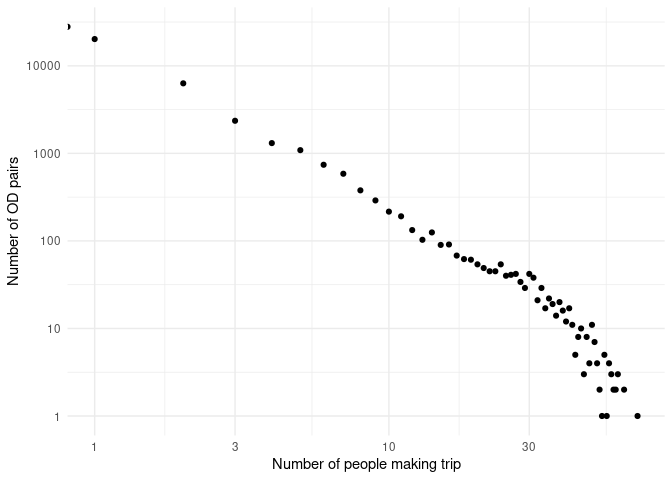
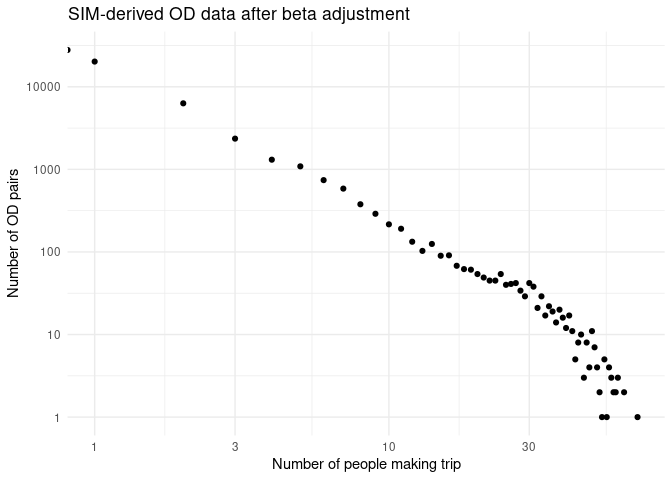
Complete updated utility methods report, for now

diff --git a/report-utility-methods.md b/report-utility-methods.md
@@ -323,9 +323,9 @@ Illustrations of the spatial interaction model results are shown below.
 
 Let’s create the equivalent graphs for a single origin zone.
 
-![](report-utility-methods_files/figure-commonmark/unnamed-chunk-31-1.png)
+![](report-utility-methods_files/figure-commonmark/sim-shopping-output-single-zone-1.png)
 
-![](report-utility-methods_files/figure-commonmark/unnamed-chunk-31-2.png)
+![](report-utility-methods_files/figure-commonmark/sim-shopping-output-single-zone-2.png)
 
 The results demonstrate how the previous `beta` value led to an
 over-emphasis on short trips.
@@ -345,21 +345,84 @@ numbers against the number of people making that trip, as shown below.
 
 ![](report-utility-methods_files/figure-commonmark/od-interaction-plot-3.png)
 
-## Disaggregating and filtering desire lines
+An feature of all OD datasets we use in this project, whether synthetic
+or observed, is that they are highly skewed, with a large number of OD
+pairs with very few trips. The proportion of OD pairs and trips
+associated with synthetic shopping OD pairs with a given number of trips
+is shown in the table below.
 
-The resulting desire lines are put through a jittering process. In cases
-where the trip origins or destinations were assigned based on
-Intermediate Zone populations, we disaggregate these desire lines and
-assign them to randomised points on the road network of the zone, rather
-than using a single point for each zone. The disaggregation threshold is
-100.
+|   n |  n_od | n_trips | proportion_pairs | proportion_trips |
+|----:|------:|--------:|-----------------:|-----------------:|
+|   0 | 27932 |    6537 |             0.44 |             0.06 |
+|   1 | 20213 |   18271 |             0.32 |             0.17 |
+|   2 |  6308 |   12048 |             0.10 |             0.11 |
+|   3 |  2357 |    6925 |             0.04 |             0.06 |
+|   4 |  1310 |    5194 |             0.02 |             0.05 |
+|   5 |  1088 |    5403 |             0.02 |             0.05 |
+|   6 |   741 |    4432 |             0.01 |             0.04 |
+|   7 |   585 |    4074 |             0.01 |             0.04 |
+|   8 |   378 |    3004 |             0.01 |             0.03 |
+|   9 |   290 |    2596 |             0.00 |             0.02 |
+|  10 |   216 |    2159 |             0.00 |             0.02 |
 
-We then filter the desire lines, excluding those with a Euclidean
-distance of \<500m (below this distance people are likely to walk rather
-than cycle) or \>5km (to reduce the computational time of the routing).
+The equivalent table for the observed commute OD data is shown below.
+
+|   n | n_od | n_trips | proportion_pairs | proportion_trips |
+|----:|-----:|--------:|-----------------:|-----------------:|
+|   1 | 7888 |    7888 |             0.43 |             0.10 |
+|   2 | 3496 |    6992 |             0.19 |             0.09 |
+|   3 | 1847 |    5541 |             0.10 |             0.07 |
+|   4 | 1072 |    4288 |             0.06 |             0.06 |
+|   5 |  726 |    3630 |             0.04 |             0.05 |
+|   6 |  485 |    2910 |             0.03 |             0.04 |
+|   7 |  381 |    2667 |             0.02 |             0.04 |
+|   8 |  285 |    2280 |             0.02 |             0.03 |
+|   9 |  227 |    2043 |             0.01 |             0.03 |
+|  10 |  192 |    1920 |             0.01 |             0.03 |
+
+To avoid the situation whereby a large number of relatively unimportant
+OD pairs account for the majority of the computational resources (around
+80% of OD pairs accounting for only 20% of travel in the table above),
+we will set a limit on the minimum number of trips for an OD pair to be
+included in the routing model, and re-assign the trips evenly in
+proportion to the flows on other OD pairs. Setting this value to 2.5
+will remove all OD pairs with fewer than 3 trips, to the nearest whole
+number. The updated OD data is illustrated below.
+
+![](report-utility-methods_files/figure-commonmark/od-interaction-filtered-1.png)
+
+The number of trips associated with each distance band for the case
+study area of Aberdeen is illustrated below.
+
+![](report-utility-methods_files/figure-commonmark/od-interaction-combined-1.png)
+
+# Jittering
+
+The resulting desire lines are put ‘jittered’. We then filter the desire
+lines, excluding those with a Euclidean distance of \<500m (below this
+distance people are likely to walk rather than cycle) or \>5km (to
+reduce the computational time of the routing).
 
 ## Routing
 
 Finally, the desire lines are routed on the road network, using the
 CycleStreets routing algorithms for fast and quiet routes. Individual
 routes are then combined into a route network.
+
+# Next steps
+
+The approach outlined above has been validated and quality assured, with
+reproducible code reviewed by a second analyst. There are a number of
+ways in which we can improve the accuracy of results in Phase 3, in
+rough descending order of priority:
+
+- Account for the fact that trip rates are note the same across zones:
+  rural areas are known to have lower trip rates than urban areas, and
+  longer distance trips are known to be made less frequently.
+- Refine the weighting associated with each grid point in the spatial
+  interaction model, to account for the fact that some destinations
+  (e.g. large supermarkets for shopping trips) are larger trip
+  attractors than others.
+- Revisit the grid: should a more approach e.g. involving spatial
+  clustering of points be used?
+- Use additional data to estimate mode split under the Baseline scenario
